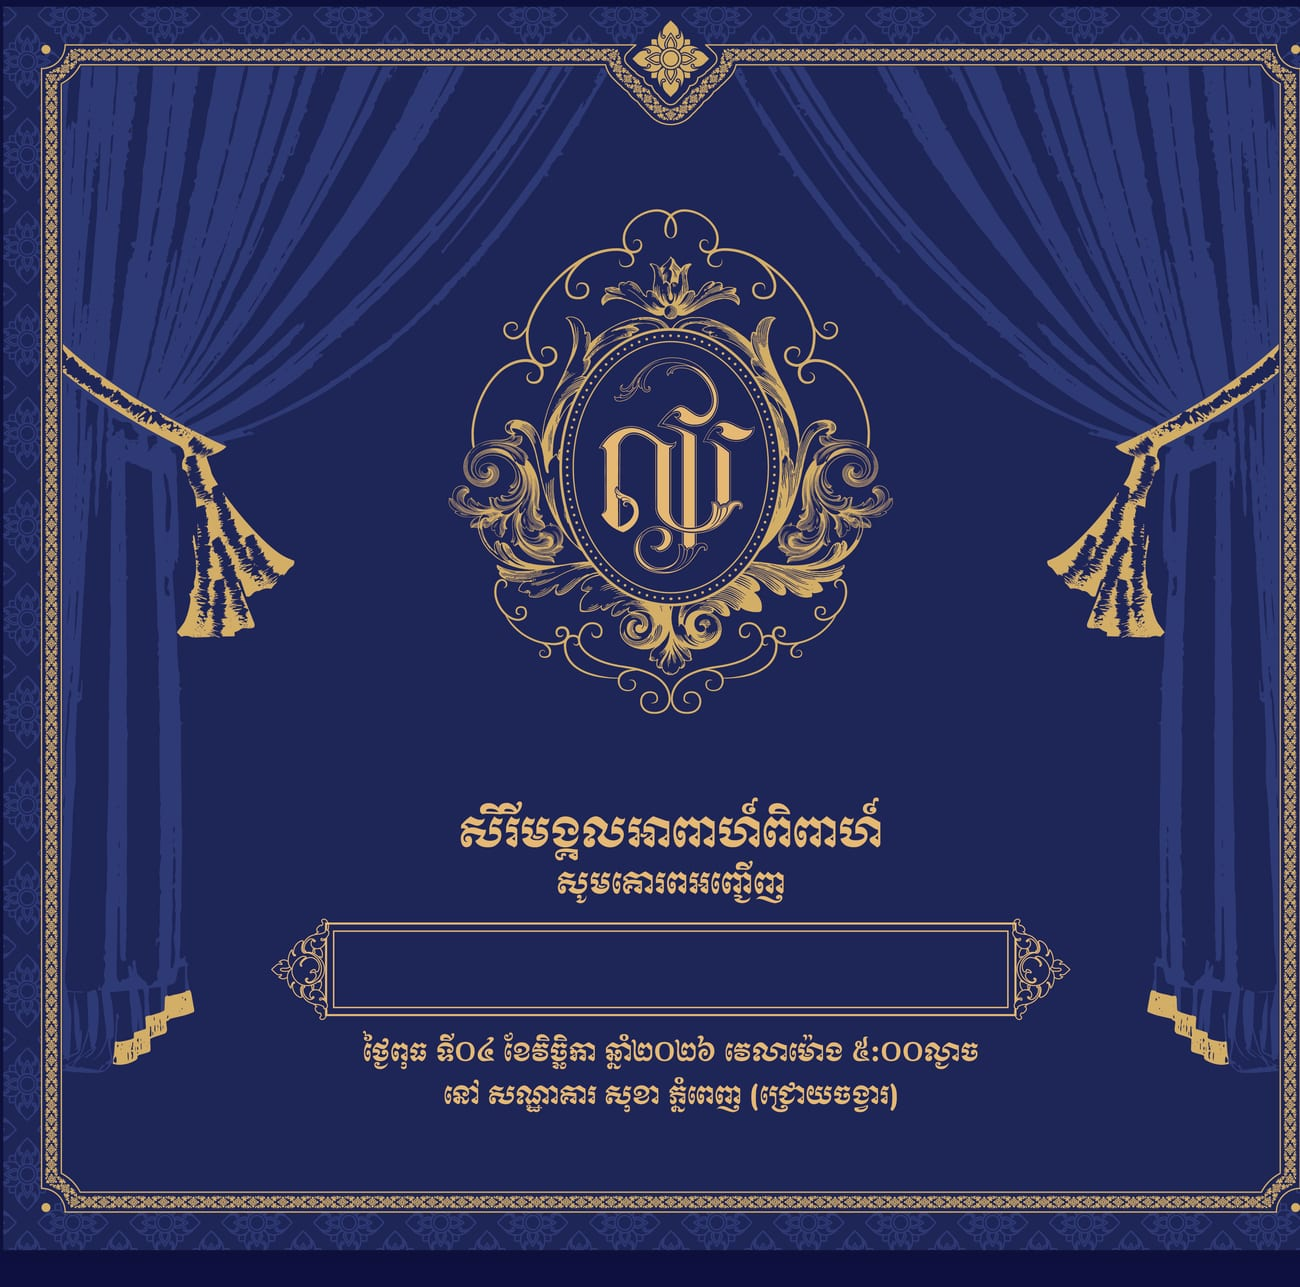
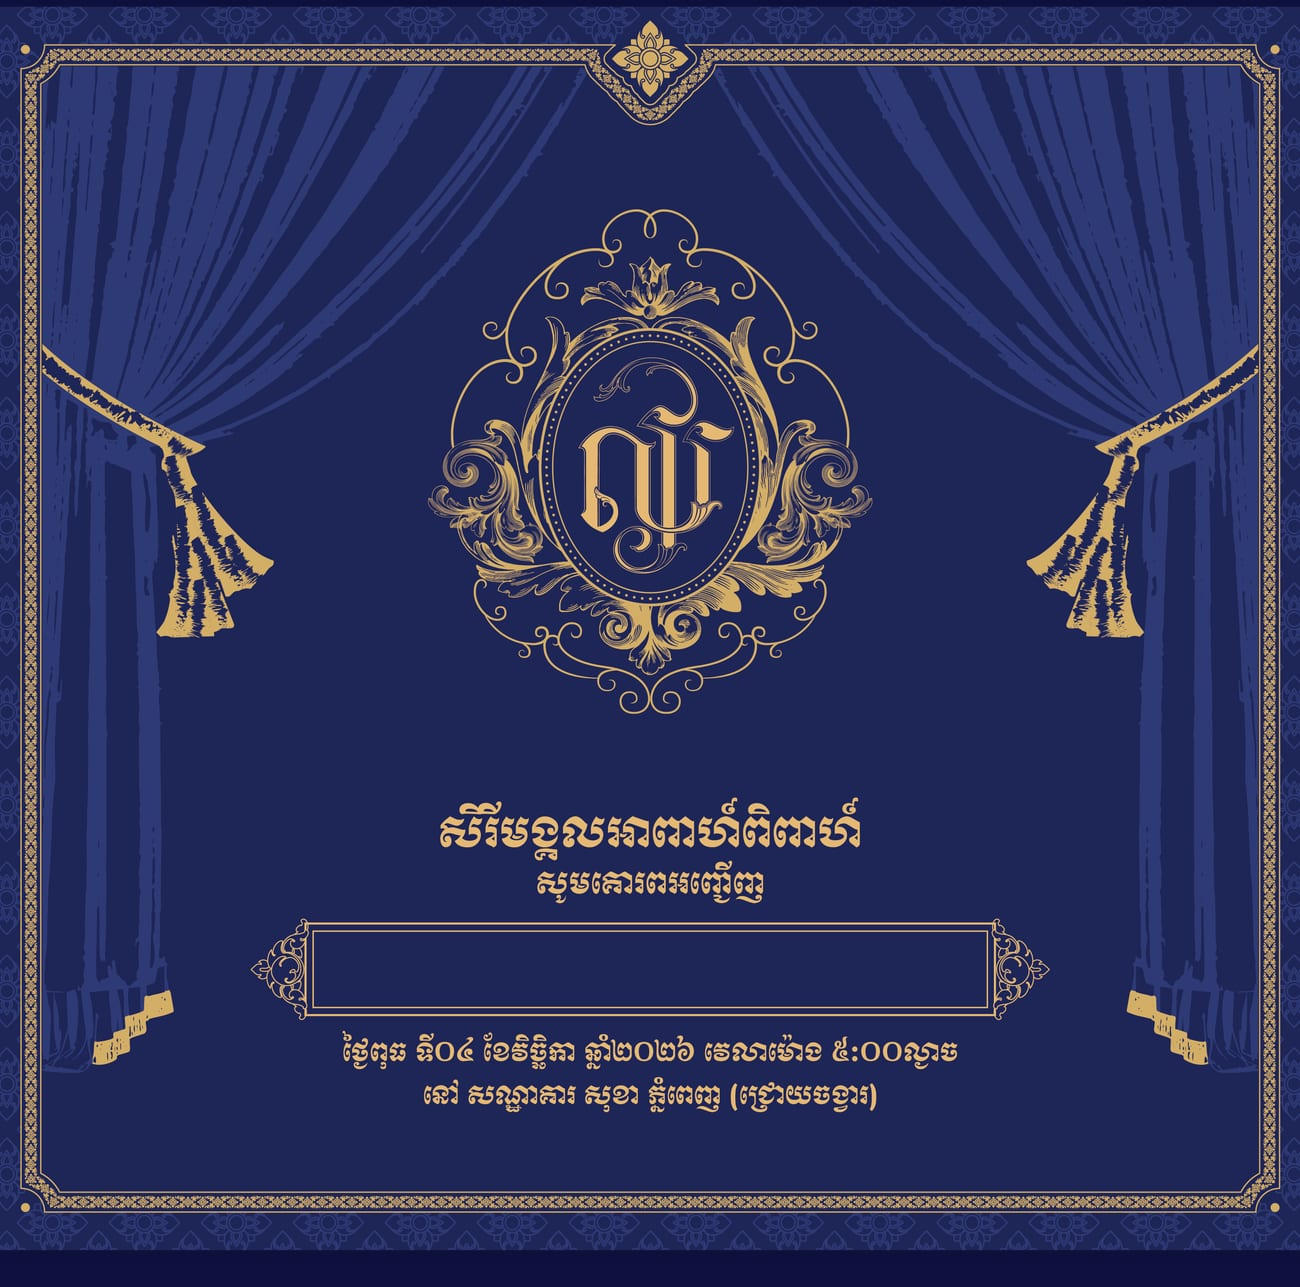
Center the cover crop: equal damask margins left and right of the gold frame

diff --git a/src/config.js b/src/config.js
@@ -53,7 +53,7 @@ export const art = {
   thanks: { src: '/assets/card/panel-thanks.jpg', alt: 'សេចក្តីថ្លែងអំណរគុណ និងសេចក្តីសុំអភ័យទោស' },
   mapCard: { src: '/assets/card/map-card.jpg', alt: 'ផែនទីទៅសណ្ឋាគារ សុខា ភ្នំពេញ (ជ្រោយចង្វារ)' },
   guestFrame: { src: '/assets/card/guest-frame.png', alt: '' },
-  guestBox: { left: 23.8, top: 72.05, width: 53.2, height: 5.2 },
+  guestBox: { left: 22.2, top: 72.05, width: 53.2, height: 5.2 },
 }
 
 // ---------------------------------------------------------------------------
